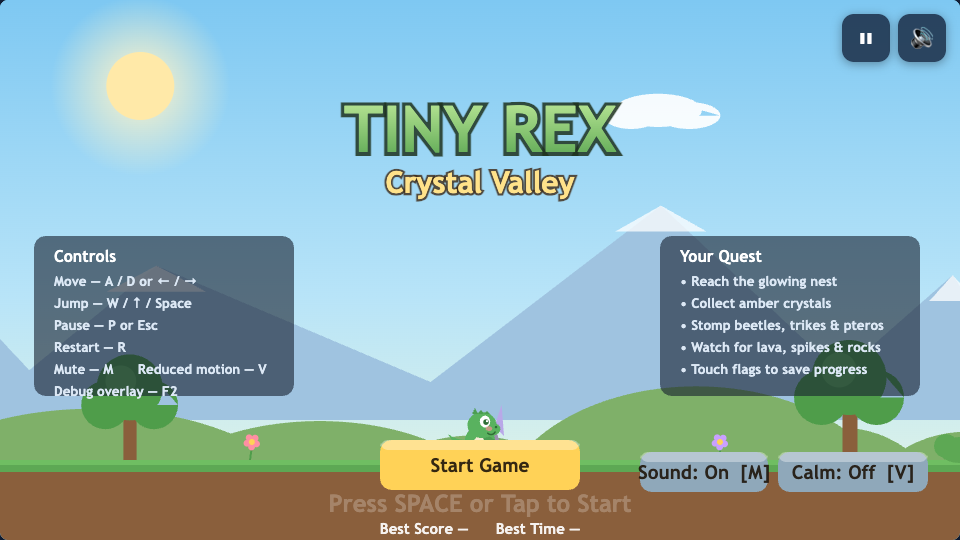
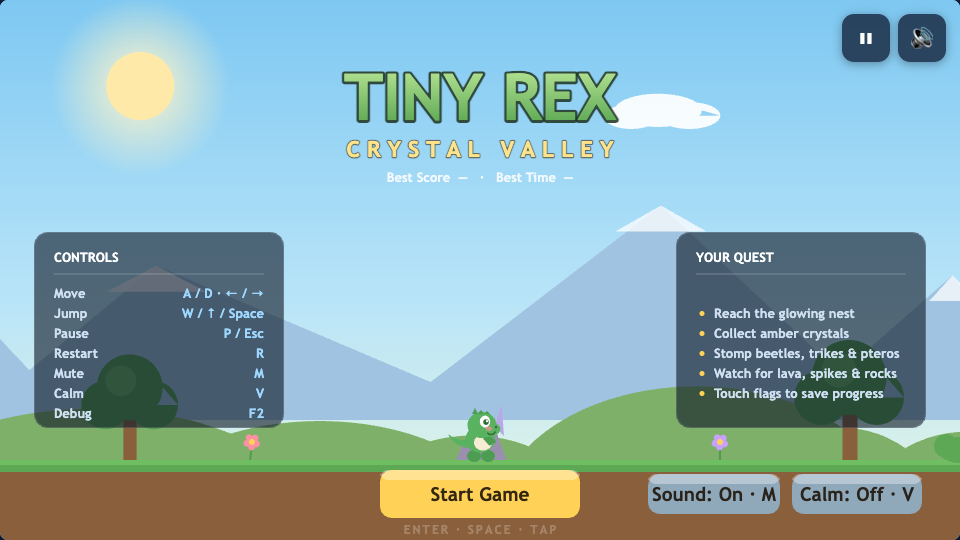
Redesign main menu typography and layout
- TINY REX title + letter-spaced CRYSTAL VALLEY subtitle (tracked, amber)
- Consolidate best-run / best-hearts onto a single dot-separated line
- Replace stacked text lists with two titled info panels (CONTROLS,
  YOUR QUEST) with aligned label/value rows and amber accents
- Move start button and sound/calm pills onto the ground strip; drop the
  redundant 'Press SPACE or Tap' line for a single tracked prompt
- Add drawTracked/drawInfoPanel helpers
- Lint: give scripts/*.mjs node+browser globals (evidence capture)
- Regenerate evidence captures with the new menu

diff --git a/src/game.ts b/src/game.ts
@@ -699,6 +699,42 @@ export class Game implements GameCtx {
     return { px, py, pw, ph };
   }
 
+  /** Centered text with manual letter tracking (portable across browsers). */
+  drawTracked(ctx: CanvasRenderingContext2D, text: string, cx: number, y: number, spacing: number, stroke: boolean): void {
+    const chars = [...text];
+    const widths = chars.map((c) => ctx.measureText(c).width);
+    let x = cx - (widths.reduce((a, b) => a + b, 0) + spacing * (chars.length - 1)) / 2;
+    const prevAlign = ctx.textAlign;
+    ctx.textAlign = 'left';
+    for (let i = 0; i < chars.length; i++) {
+      if (stroke) ctx.strokeText(chars[i], x, y);
+      ctx.fillText(chars[i], x, y);
+      x += widths[i] + spacing;
+    }
+    ctx.textAlign = prevAlign;
+  }
+
+  /** Rounded, semi-transparent info panel with an uppercase heading and divider. */
+  drawInfoPanel(ctx: CanvasRenderingContext2D, x: number, y: number, w: number, h: number, heading: string): void {
+    ctx.fillStyle = 'rgba(16,26,40,0.62)';
+    this.roundRect(ctx, x, y, w, h, 14);
+    ctx.fill();
+    ctx.strokeStyle = 'rgba(255,255,255,0.14)';
+    ctx.lineWidth = 1;
+    this.roundRect(ctx, x + 0.5, y + 0.5, w - 1, h - 1, 14);
+    ctx.stroke();
+    ctx.fillStyle = '#fff';
+    ctx.font = '800 13px ' + FONT_STACK;
+    ctx.textAlign = 'left';
+    ctx.fillText(heading, x + 20, y + 30);
+    ctx.strokeStyle = 'rgba(255,255,255,0.25)';
+    ctx.lineWidth = 1;
+    ctx.beginPath();
+    ctx.moveTo(x + 20, y + 42);
+    ctx.lineTo(x + w - 20, y + 42);
+    ctx.stroke();
+  }
+
   drawUIButton(ctx: CanvasRenderingContext2D, b: UIButton): void {
     const hover = this.uiHover === b;
     ctx.fillStyle = b.color || '#ffd257';
@@ -828,80 +864,82 @@ export class Game implements GameCtx {
       rot: 0,
     };
     Sprite.drawRex(ctx, fakeP, this.time);
-    // Title with bounce
+    // Title block (gently floating)
     ctx.textAlign = 'center';
     const bounce = Math.sin(this.time * 2) * 4;
     ctx.font = '800 64px ' + FONT_STACK;
-    ctx.lineWidth = 8;
+    ctx.lineJoin = 'round';
+    ctx.lineWidth = 6;
     ctx.strokeStyle = 'rgba(30,50,30,0.85)';
-    ctx.strokeText('TINY REX', VW / 2, 150 + bounce);
-    const tg = ctx.createLinearGradient(0, 90, 0, 160);
+    ctx.strokeText('TINY REX', VW / 2, 118 + bounce);
+    const tg = ctx.createLinearGradient(0, 56, 0, 124);
     tg.addColorStop(0, '#c8f0a0');
     tg.addColorStop(1, '#5da854');
     ctx.fillStyle = tg;
-    ctx.fillText('TINY REX', VW / 2, 150 + bounce);
-    ctx.font = '800 30px ' + FONT_STACK;
-    ctx.lineWidth = 5;
-    ctx.strokeStyle = 'rgba(60,40,20,0.8)';
-    ctx.strokeText('Crystal Valley', VW / 2, 192 + bounce * 0.5);
+    ctx.fillText('TINY REX', VW / 2, 118 + bounce);
+    // Subtitle: tracked uppercase for a cleaner lockup
+    ctx.font = '800 22px ' + FONT_STACK;
+    ctx.lineWidth = 3;
+    ctx.strokeStyle = 'rgba(60,40,20,0.6)';
+    this.drawTracked(ctx, 'CRYSTAL VALLEY', VW / 2, 156 + bounce * 0.4, 7, true);
     ctx.fillStyle = '#ffe28a';
-    ctx.fillText('Crystal Valley', VW / 2, 192 + bounce * 0.5);
-    // Start prompt
-    const pulse = 0.6 + 0.4 * Math.sin(this.time * 3.4);
-    ctx.globalAlpha = pulse;
-    ctx.font = '800 24px ' + FONT_STACK;
-    ctx.fillStyle = '#fff';
-    ctx.fillText('Press SPACE or Tap to Start', VW / 2, 512);
-    ctx.globalAlpha = 1;
+    this.drawTracked(ctx, 'CRYSTAL VALLEY', VW / 2, 156 + bounce * 0.4, 7, false);
     // Best records
-    ctx.font = '700 15px ' + FONT_STACK;
-    ctx.fillStyle = 'rgba(255,255,255,0.92)';
+    ctx.font = '600 13px ' + FONT_STACK;
+    ctx.fillStyle = 'rgba(255,255,255,0.85)';
     ctx.fillText(
-      'Best Score ' + (this.best.score || '—') + '      Best Time ' + (this.best.time === null ? '—' : fmtTime(this.best.time)),
+      'Best Score  ' + (this.best.score || '—') + '   ·   Best Time  ' + (this.best.time === null ? '—' : fmtTime(this.best.time)),
       VW / 2,
-      534,
+      182,
     );
-    // Controls
-    ctx.fillStyle = 'rgba(20,30,45,0.6)';
-    this.roundRect(ctx, 34, 236, 260, 160, 12);
-    ctx.fill();
-    ctx.fillStyle = '#fff';
-    ctx.textAlign = 'left';
-    ctx.font = '800 16px ' + FONT_STACK;
-    ctx.fillText('Controls', 54, 262);
-    ctx.font = '600 13.5px ' + FONT_STACK;
-    ctx.fillStyle = '#dce8f5';
-    const rows = [
-      'Move — A / D or ← / →',
-      'Jump — W / ↑ / Space',
-      'Pause — P or Esc',
-      'Restart — R',
-      'Mute — M      Reduced motion — V',
-      'Debug overlay — F2',
+    // Controls panel (left)
+    const cpx = 34, cpy = 232, cpw = 250, cph = 196;
+    this.drawInfoPanel(ctx, cpx, cpy, cpw, cph, 'CONTROLS');
+    const rows: Array<[string, string]> = [
+      ['Move', 'A / D · ← / →'],
+      ['Jump', 'W / ↑ / Space'],
+      ['Pause', 'P / Esc'],
+      ['Restart', 'R'],
+      ['Mute', 'M'],
+      ['Calm', 'V'],
+      ['Debug', 'F2'],
     ];
-    rows.forEach((r, i) => ctx.fillText(r, 54, 286 + i * 22));
-    // Right side info panel
-    ctx.fillStyle = 'rgba(20,30,45,0.6)';
-    this.roundRect(ctx, VW - 300, 236, 260, 160, 12);
-    ctx.fill();
-    ctx.fillStyle = '#fff';
-    ctx.font = '800 16px ' + FONT_STACK;
-    ctx.fillText('Your Quest', VW - 280, 262);
-    ctx.font = '600 13.5px ' + FONT_STACK;
-    ctx.fillStyle = '#dce8f5';
+    ctx.font = '600 13px ' + FONT_STACK;
+    rows.forEach(([label, keys], i) => {
+      const y = cpy + 66 + i * 20;
+      ctx.textAlign = 'left';
+      ctx.fillStyle = '#cfe0f2';
+      ctx.fillText(label, cpx + 20, y);
+      ctx.textAlign = 'right';
+      ctx.fillStyle = '#9fd8ff';
+      ctx.fillText(keys, cpx + cpw - 20, y);
+    });
+    // Quest panel (right), rows vertically centred against the controls list
+    const qx = VW - 284, qy = 232, qw = 250, qh = 196;
+    this.drawInfoPanel(ctx, qx, qy, qw, qh, 'YOUR QUEST');
     const quest = [
-      '• Reach the glowing nest',
-      '• Collect amber crystals',
-      '• Stomp beetles, trikes & pteros',
-      '• Watch for lava, spikes & rocks',
-      '• Touch flags to save progress',
+      'Reach the glowing nest',
+      'Collect amber crystals',
+      'Stomp beetles, trikes & pteros',
+      'Watch for lava, spikes & rocks',
+      'Touch flags to save progress',
     ];
-    quest.forEach((r, i) => ctx.fillText(r, VW - 280, 286 + i * 22));
-    // Mute / reduced-motion toggles (drawn as buttons)
+    ctx.font = '600 13px ' + FONT_STACK;
+    quest.forEach((r, i) => {
+      const y = qy + 86 + i * 20;
+      ctx.fillStyle = '#ffd257';
+      ctx.beginPath();
+      ctx.arc(qx + 26, y - 4.5, 2.5, 0, TAU);
+      ctx.fill();
+      ctx.textAlign = 'left';
+      ctx.fillStyle = '#cfe0f2';
+      ctx.fillText(r, qx + 38, y);
+    });
+    // Start button + toggles (sitting on the ground strip for contrast)
     this.uiButtons = [
-      { x: VW / 2 - 100, y: 440, w: 200, h: 50, label: 'Start Game', action: () => this.startGame() },
+      { x: VW / 2 - 100, y: 470, w: 200, h: 48, label: 'Start Game', action: () => this.startGame() },
       {
-        x: 640, y: 452, w: 128, h: 40, label: (this.audio.muted ? 'Sound: Off' : 'Sound: On') + '  [M]',
+        x: 648, y: 474, w: 132, h: 40, label: (this.audio.muted ? 'Sound: Off' : 'Sound: On') + ' · M',
         color: '#8fa8ba',
         action: () => {
           this.audio.setMuted(!this.audio.muted);
@@ -910,7 +948,7 @@ export class Game implements GameCtx {
         },
       },
       {
-        x: 778, y: 452, w: 150, h: 40, label: (this.reducedMotion ? 'Calm: On' : 'Calm: Off') + '  [V]',
+        x: 792, y: 474, w: 130, h: 40, label: (this.reducedMotion ? 'Calm: On' : 'Calm: Off') + ' · V',
         color: '#8fa8ba',
         action: () => {
           this.reducedMotion = !this.reducedMotion;
@@ -920,6 +958,13 @@ export class Game implements GameCtx {
       },
     ];
     for (const b of this.uiButtons) this.drawUIButton(ctx, b);
+    // Start hint under the button
+    const pulse = 0.55 + 0.35 * Math.sin(this.time * 3.4);
+    ctx.globalAlpha = pulse;
+    ctx.font = '700 12px ' + FONT_STACK;
+    ctx.fillStyle = '#fff';
+    this.drawTracked(ctx, 'ENTER · SPACE · TAP', VW / 2, 534, 2, false);
+    ctx.globalAlpha = 1;
   }
 
   drawDebug(ctx: CanvasRenderingContext2D): void {

diff --git a/eslint.config.js b/eslint.config.js
@@ -22,4 +22,11 @@ export default tseslint.config(
       globals: globals.node,
     },
   },
+  {
+    // Node harness scripts whose page.evaluate callbacks also run in the browser.
+    files: ['scripts/**/*.mjs'],
+    languageOptions: {
+      globals: { ...globals.node, ...globals.browser },
+    },
+  },
 );
